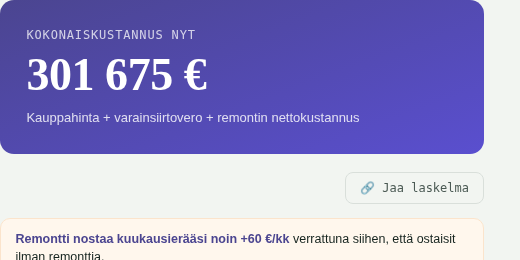
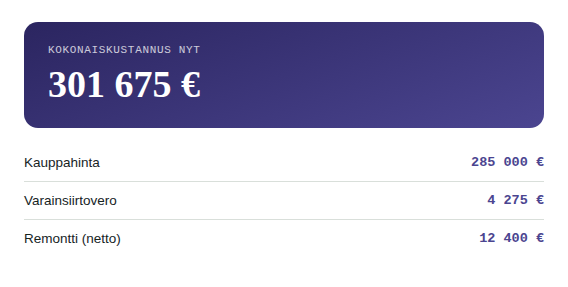
Etusivun visuaalinen hierarkia korjattu spekin mukaan:
HERO: kappale lyhennetty yhteen virkkeeseen, CTA 'Avaa asuntolaskuri ->' linkkaa suoraan remontti-asuntokauppa.html:ään (ei #tyokalut). Uusi kevyt tuloskortti-mockup (301675e + kauppahinta/vero/remontti) korvaa tiheän koko-UI-kuvan. Hero-koriste-palkit säilytetty (jo ennestään lyhyt/keski/pitkä-nousevia, tulkittavissa kustannuskerroksina).

TILASTOT: korttiruudukko -> yksi lauserivi '4 laskuria * Kaytto ruudulla 0e * 0 tuotesuositusta'. Ei enaa dashboard-nollia eika 2x2-aukkoa mobiilissa.

AJANKOHTAISTA: keltainen pilli -> tekstilinkki samalla varilla kuin leipalinkit (var(--violetti-2)).

LIPPULAIVAKORTTI: lisatty '285000e -> 301675e' -rivi.

NAIN SE TOIMII: vaihe 2 nyt sama tuloskortti-mockup kuin herossa, sama kromi kolmessa vaiheessa. Mobiilinuolet piilotettu (kumoaa aiemman paatoksen taman uudemman spekin mukaisesti).

NAV: 23 sivua paivitetty 6->4 nakyvaan linkkiin (Etusivu/Tyokalut/Ajankohtaista/UKK). Vuosikello/Esimerkit/Sanasto siirretty footeriin kaikilla sivuilla. Tyokalut-ankkuri osoittaa oikein index.html#tyokalut muilta sivuilta.

MUUT: poistettu emoji esimerkkinapista (remontti-sivu) ja pizza-emoji etusivun kortista.

LOYDETTY JA KORJATTU BUGI: ensimmainen mockup-kuvaversio sisalsi oman selainkromin, mika tuplaantui olemassa olevan HTML-kromin paalle. Regeneroitu kuva ilman kromia, vain sisalto.
[…]

diff --git a/index.html b/index.html
@@ -39,10 +39,8 @@
 
   <nav class="paanavi">
     <a href="index.html" class="aktiivinen">Etusivu</a>
+    <a href="#tyokalut">Työkalut</a>
     <a href="ajankohtaista.html">Ajankohtaista</a>
-    <a href="talouden-vuosikello.html">Vuosikello</a>
-    <a href="esimerkit.html">Esimerkit</a>
-    <a href="sanasto.html">Sanasto</a>
     <a href="ukk.html">UKK</a>
   </nav>
 
@@ -70,8 +68,8 @@
     </svg>
     <div class="hero-teksti">
       <h1>Arjen ongelmat, ratkaistavaksi tehtynä.</h1>
-      <p>Klaara rakentaa ilmaisia, riippumattomia laskureita arjen toistuviin ongelmiin. Ei myyntipuhetta, ei piilotettuja oletuksia — vain selkeä ero sen välillä, mikä on faktaa ja mikä arviota.</p>
-      <a class="fresh-badge" href="#tyokalut">SELVITÄ OMA TILANTEESI →</a>
+      <p>Ilmaisia laskureita ilman myyntipuhetta. Fakta ja arvio pidetään erillään.</p>
+      <a class="fresh-badge" href="remontti-asuntokauppa.html">Avaa asuntolaskuri →</a>
     </div>
     <div class="hero-mockup-kehys">
       <div class="hero-mockup">
@@ -86,24 +84,13 @@
     </div>
   </div>
 
-  <div class="tilasto-palkki">
-    <div class="tilasto-solu">
-      <div class="tilasto-luku" data-kohde="4">0</div>
-      <div class="tilasto-kuvaus">Laskuria käytössä</div>
-    </div>
-    <div class="tilasto-solu">
-      <div class="tilasto-luku" data-kohde="0" data-jalkiliite=" €">0 €</div>
-      <div class="tilasto-kuvaus">Laskurien käyttö ruudulla</div>
-    </div>
-    <div class="tilasto-solu">
-      <div class="tilasto-luku" data-kohde="0">0</div>
-      <div class="tilasto-kuvaus">Finanssituotesuosituksia</div>
-    </div>
+  <div class="tilasto-lause">
+    <strong>4 laskuria</strong> · Käyttö ruudulla <strong>0 €</strong> · <strong>0</strong> tuotesuositusta
   </div>
 
   <a class="cta-laskuri" href="ajankohtaista.html" style="text-decoration:none; margin-bottom:28px;">
     <span><strong style="color:var(--muste);">Uutta:</strong> Ajankohtaista — kuratoitu poiminta arjen talousuutisista, juuri nyt.</span>
-    <span style="font-family:'IBM Plex Mono', monospace; font-size:12.5px; font-weight:600; color:var(--muste); background:var(--cta); padding:9px 16px; border-radius:8px; white-space:nowrap;">Katso poiminnat →</span>
+    <span style="font-family:'IBM Plex Mono', monospace; font-size:12.5px; font-weight:600; color:var(--violetti-2); white-space:nowrap;">Katso poiminnat →</span>
   </a>
 
   <div class="osio-tagi">Työkalut</div>
@@ -116,6 +103,7 @@
       <div class="tyokalu-tila fresh">Käytössä</div>
       <h3>Remontti & asuntokauppa</h3>
       <p>Kauppahinta, varainsiirtovero, kotitalousvähennys ja kolmen lainatyypin vertailu — yhtenä selkeänä kokonaiskuvana. Lippulaivamme, laajin laskuri sivustolla.</p>
+      <div style="font-family:'IBM Plex Mono', monospace; font-size:13px; color:rgba(255,255,255,0.85); margin-top:12px;">285 000 € → 301 675 €</div>
     </a>
 
     <a class="tyokalu-kortti vierity-sisaan" href="korkoa-korolle-laskuri.html">
@@ -170,7 +158,7 @@
     <a class="tyokalu-kortti vierity-sisaan kevennys-kortti" href="pizzataikina-laskuri.html">
       <span class="tyokalu-numero">09</span>
       <div class="tyokalu-tila kevennys">Klaara Kevennys</div>
-      <h3>Pizzataikinan laskuri 🍕</h3>
+      <h3>Pizzataikinan laskuri</h3>
       <p>Sama täsmällisyys, kevyempi aihe. Leipurin prosentit, poolish-esitaikina ja aikataulu taaksepäin laskettuna.</p>
     </a>
 
@@ -218,6 +206,11 @@
   </div>
 
   <footer class="alatunniste">
+    <div class="footeri-linkit" style="width:100%; display:flex; gap:18px; flex-wrap:wrap; margin-bottom:14px; font-size:13px;">
+      <a href="talouden-vuosikello.html" style="color:var(--muste-2);">Vuosikello</a>
+      <a href="esimerkit.html" style="color:var(--muste-2);">Esimerkit</a>
+      <a href="sanasto.html" style="color:var(--muste-2);">Sanasto</a>
+    </div>
     <span>Klaara — arjen laskurit, selkeästi.</span>
     <span>Tiedot päivitetty 20.8.2026</span>
   </footer>

diff --git a/remontti-asuntokauppa.html b/remontti-asuntokauppa.html
@@ -40,10 +40,8 @@
 
   <nav class="paanavi">
     <a href="index.html">Etusivu</a>
+    <a href="index.html#tyokalut">Työkalut</a>
     <a href="ajankohtaista.html">Ajankohtaista</a>
-    <a href="talouden-vuosikello.html">Vuosikello</a>
-    <a href="esimerkit.html">Esimerkit</a>
-    <a href="sanasto.html">Sanasto</a>
     <a href="ukk.html">UKK</a>
   </nav>
 
@@ -76,7 +74,7 @@
     <div class="paneeli">
       <h2>Syötä tiedot</h2>
 
-      <button type="button" class="esimerkki-nappi" id="esimerkkiNappi">✨ Täytä esimerkkilaskelma — kokeile kaikkia ominaisuuksia yhdellä klikkauksella</button>
+      <button type="button" class="esimerkki-nappi" id="esimerkkiNappi">Täytä esimerkkilaskelma — kokeile kaikkia ominaisuuksia yhdellä klikkauksella</button>
 
       <div class="osio-otsikko">Nykyinen tilanne</div>
       <div class="kytkin-rivi">
@@ -586,6 +584,11 @@
   </div>
 
   <footer class="alatunniste">
+    <div class="footeri-linkit" style="width:100%; display:flex; gap:18px; flex-wrap:wrap; margin-bottom:14px; font-size:13px;">
+      <a href="talouden-vuosikello.html" style="color:var(--muste-2);">Vuosikello</a>
+      <a href="esimerkit.html" style="color:var(--muste-2);">Esimerkit</a>
+      <a href="sanasto.html" style="color:var(--muste-2);">Sanasto</a>
+    </div>
     <span>Klaara — arjen laskurit, selkeästi.</span>
     <span>Tiedot päivitetty 20.8.2026</span>
   </footer>

diff --git a/styles.css b/styles.css
@@ -1425,11 +1425,7 @@ details.lisaasetukset .lisaasetukset-sisalto { margin-top: 16px; }
   .miten-kortti { margin-bottom: 1.5rem; }
   .miten-kortti:last-child { margin-bottom: 0; }
 
-  .miten-nuoli {
-    display: flex;
-    margin: 0 auto 1.5rem;
-    transform: rotate(90deg);
-  }
+  .miten-nuoli { display: none; }
 
   .miten-ghost-numero { font-size: 60px; top: -4px; }
 
@@ -1590,4 +1586,23 @@ details.lisaasetukset .lisaasetukset-sisalto { margin-top: 16px; }
 }
 @media (prefers-reduced-motion: reduce) {
   .vierity-sisaan { opacity: 1; transform: none; transition: none; }
+}
+
+/* ---------- Tilastolause (korvaa dashboard-kortit) ---------- */
+
+.tilasto-lause {
+  font-family: 'Inter', sans-serif;
+  font-size: 14.5px;
+  color: var(--muste-2);
+  text-align: center;
+  padding: 18px 16px;
+  margin: 28px 0;
+}
+.tilasto-lause strong {
+  font-family: 'IBM Plex Mono', monospace;
+  color: var(--violetti-2);
+  font-weight: 700;
+}
+@media (max-width: 560px) {
+  .tilasto-lause { font-size: 13.5px; line-height: 1.9; }
 }

diff --git a/pizzataikina-laskuri.html b/pizzataikina-laskuri.html
@@ -71,10 +71,8 @@
 
   <nav class="paanavi">
     <a href="index.html">Etusivu</a>
+    <a href="index.html#tyokalut">Työkalut</a>
     <a href="ajankohtaista.html">Ajankohtaista</a>
-    <a href="talouden-vuosikello.html">Vuosikello</a>
-    <a href="esimerkit.html">Esimerkit</a>
-    <a href="sanasto.html">Sanasto</a>
     <a href="ukk.html">UKK</a>
   </nav>
 
@@ -345,6 +343,11 @@
   </div>
 
   <footer class="alatunniste">
+    <div class="footeri-linkit" style="width:100%; display:flex; gap:18px; flex-wrap:wrap; margin-bottom:14px; font-size:13px;">
+      <a href="talouden-vuosikello.html" style="color:var(--muste-2);">Vuosikello</a>
+      <a href="esimerkit.html" style="color:var(--muste-2);">Esimerkit</a>
+      <a href="sanasto.html" style="color:var(--muste-2);">Sanasto</a>
+    </div>
     <span>Klaara — arjen ratkaisut, selkeästi. (Ja välillä pizzaa.)</span>
     <span>Tiedot päivitetty 28.8.2026</span>
   </footer>

diff --git a/ajankohtaista.html b/ajankohtaista.html
@@ -39,10 +39,8 @@
 
   <nav class="paanavi">
     <a href="index.html">Etusivu</a>
+    <a href="index.html#tyokalut">Työkalut</a>
     <a href="ajankohtaista.html" class="aktiivinen">Ajankohtaista</a>
-    <a href="talouden-vuosikello.html">Vuosikello</a>
-    <a href="esimerkit.html">Esimerkit</a>
-    <a href="sanasto.html">Sanasto</a>
     <a href="ukk.html">UKK</a>
   </nav>
 
@@ -102,6 +100,11 @@
   </div>
 
   <footer class="alatunniste">
+    <div class="footeri-linkit" style="width:100%; display:flex; gap:18px; flex-wrap:wrap; margin-bottom:14px; font-size:13px;">
+      <a href="talouden-vuosikello.html" style="color:var(--muste-2);">Vuosikello</a>
+      <a href="esimerkit.html" style="color:var(--muste-2);">Esimerkit</a>
+      <a href="sanasto.html" style="color:var(--muste-2);">Sanasto</a>
+    </div>
     <span>Klaara — arjen laskurit, selkeästi.</span>
     <span>Poiminnat päivitetty 20.8.2026</span>
   </footer>

diff --git a/esimerkki-asunnon-osto-remontti.html b/esimerkki-asunnon-osto-remontti.html
@@ -39,10 +39,8 @@
 
   <nav class="paanavi">
     <a href="index.html">Etusivu</a>
+    <a href="index.html#tyokalut">Työkalut</a>
     <a href="ajankohtaista.html">Ajankohtaista</a>
-    <a href="talouden-vuosikello.html">Vuosikello</a>
-    <a href="esimerkit.html" class="aktiivinen">Esimerkit</a>
-    <a href="sanasto.html">Sanasto</a>
     <a href="ukk.html">UKK</a>
   </nav>
 
@@ -127,6 +125,11 @@
   </div>
 
   <footer class="alatunniste">
+    <div class="footeri-linkit" style="width:100%; display:flex; gap:18px; flex-wrap:wrap; margin-bottom:14px; font-size:13px;">
+      <a href="talouden-vuosikello.html" style="color:var(--muste-2);">Vuosikello</a>
+      <a href="esimerkit.html" style="color:var(--muste-2);">Esimerkit</a>
+      <a href="sanasto.html" style="color:var(--muste-2);">Sanasto</a>
+    </div>
     <span>Klaara — arjen laskurit, selkeästi.</span>
     <span>Tiedot päivitetty 20.8.2026</span>
   </footer>

diff --git a/esimerkki-kylpyhuoneremontti.html b/esimerkki-kylpyhuoneremontti.html
@@ -39,10 +39,8 @@
 
   <nav class="paanavi">
     <a href="index.html">Etusivu</a>
+    <a href="index.html#tyokalut">Työkalut</a>
     <a href="ajankohtaista.html">Ajankohtaista</a>
-    <a href="talouden-vuosikello.html">Vuosikello</a>
-    <a href="esimerkit.html" class="aktiivinen">Esimerkit</a>
-    <a href="sanasto.html">Sanasto</a>
     <a href="ukk.html">UKK</a>
   </nav>
 
@@ -126,6 +124,11 @@
   </div>
 
   <footer class="alatunniste">
+    <div class="footeri-linkit" style="width:100%; display:flex; gap:18px; flex-wrap:wrap; margin-bottom:14px; font-size:13px;">
+      <a href="talouden-vuosikello.html" style="color:var(--muste-2);">Vuosikello</a>
+      <a href="esimerkit.html" style="color:var(--muste-2);">Esimerkit</a>
+      <a href="sanasto.html" style="color:var(--muste-2);">Sanasto</a>
+    </div>
     <span>Klaara — arjen laskurit, selkeästi.</span>
     <span>Tiedot päivitetty 20.8.2026</span>
   </footer>

diff --git a/esimerkki-pariskunta-vs-yksin.html b/esimerkki-pariskunta-vs-yksin.html
@@ -39,10 +39,8 @@
 
   <nav class="paanavi">
     <a href="index.html">Etusivu</a>
+    <a href="index.html#tyokalut">Työkalut</a>
     <a href="ajankohtaista.html">Ajankohtaista</a>
-    <a href="talouden-vuosikello.html">Vuosikello</a>
-    <a href="esimerkit.html" class="aktiivinen">Esimerkit</a>
-    <a href="sanasto.html">Sanasto</a>
     <a href="ukk.html">UKK</a>
   </nav>
 
@@ -125,6 +123,11 @@
   </div>
 
   <footer class="alatunniste">
+    <div class="footeri-linkit" style="width:100%; display:flex; gap:18px; flex-wrap:wrap; margin-bottom:14px; font-size:13px;">
+      <a href="talouden-vuosikello.html" style="color:var(--muste-2);">Vuosikello</a>
+      <a href="esimerkit.html" style="color:var(--muste-2);">Esimerkit</a>
+      <a href="sanasto.html" style="color:var(--muste-2);">Sanasto</a>
+    </div>
     <span>Klaara — arjen laskurit, selkeästi.</span>
     <span>Tiedot päivitetty 20.8.2026</span>
   </footer>

diff --git a/sanasto-annuiteettilaina.html b/sanasto-annuiteettilaina.html
@@ -39,10 +39,8 @@
 
   <nav class="paanavi">
     <a href="index.html">Etusivu</a>
+    <a href="index.html#tyokalut">Työkalut</a>
     <a href="ajankohtaista.html">Ajankohtaista</a>
-    <a href="talouden-vuosikello.html">Vuosikello</a>
-    <a href="esimerkit.html">Esimerkit</a>
-    <a href="sanasto.html" class="aktiivinen">Sanasto</a>
     <a href="ukk.html">UKK</a>
   </nav>
 
@@ -104,6 +102,11 @@
   </div>
 
   <footer class="alatunniste">
+    <div class="footeri-linkit" style="width:100%; display:flex; gap:18px; flex-wrap:wrap; margin-bottom:14px; font-size:13px;">
+      <a href="talouden-vuosikello.html" style="color:var(--muste-2);">Vuosikello</a>
+      <a href="esimerkit.html" style="color:var(--muste-2);">Esimerkit</a>
+      <a href="sanasto.html" style="color:var(--muste-2);">Sanasto</a>
+    </div>
     <span>Klaara — arjen laskurit, selkeästi.</span>
     <span>Tiedot päivitetty 20.8.2026</span>
   </footer>

diff --git a/sanasto-bullettilaina.html b/sanasto-bullettilaina.html
@@ -39,10 +39,8 @@
 
   <nav class="paanavi">
     <a href="index.html">Etusivu</a>
+    <a href="index.html#tyokalut">Työkalut</a>
     <a href="ajankohtaista.html">Ajankohtaista</a>
-    <a href="talouden-vuosikello.html">Vuosikello</a>
-    <a href="esimerkit.html">Esimerkit</a>
-    <a href="sanasto.html" class="aktiivinen">Sanasto</a>
     <a href="ukk.html">UKK</a>
   </nav>
 
@@ -103,6 +101,11 @@
   </div>
 
   <footer class="alatunniste">
+    <div class="footeri-linkit" style="width:100%; display:flex; gap:18px; flex-wrap:wrap; margin-bottom:14px; font-size:13px;">
+      <a href="talouden-vuosikello.html" style="color:var(--muste-2);">Vuosikello</a>
+      <a href="esimerkit.html" style="color:var(--muste-2);">Esimerkit</a>
+      <a href="sanasto.html" style="color:var(--muste-2);">Sanasto</a>
+    </div>
     <span>Klaara — arjen laskurit, selkeästi.</span>
     <span>Tiedot päivitetty 20.8.2026</span>
   </footer>

diff --git a/sanasto-kasiraha.html b/sanasto-kasiraha.html
@@ -39,10 +39,8 @@
 
   <nav class="paanavi">
     <a href="index.html">Etusivu</a>
+    <a href="index.html#tyokalut">Työkalut</a>
     <a href="ajankohtaista.html">Ajankohtaista</a>
-    <a href="talouden-vuosikello.html">Vuosikello</a>
-    <a href="esimerkit.html">Esimerkit</a>
-    <a href="sanasto.html" class="aktiivinen">Sanasto</a>
     <a href="ukk.html">UKK</a>
   </nav>
 
@@ -103,6 +101,11 @@
   </div>
 
   <footer class="alatunniste">
+    <div class="footeri-linkit" style="width:100%; display:flex; gap:18px; flex-wrap:wrap; margin-bottom:14px; font-size:13px;">
+      <a href="talouden-vuosikello.html" style="color:var(--muste-2);">Vuosikello</a>
+      <a href="esimerkit.html" style="color:var(--muste-2);">Esimerkit</a>
+      <a href="sanasto.html" style="color:var(--muste-2);">Sanasto</a>
+    </div>
     <span>Klaara — arjen laskurit, selkeästi.</span>
     <span>Tiedot päivitetty 20.8.2026</span>
   </footer>

diff --git a/sanasto-korkoakorolle.html b/sanasto-korkoakorolle.html
@@ -39,10 +39,8 @@
 
   <nav class="paanavi">
     <a href="index.html">Etusivu</a>
+    <a href="index.html#tyokalut">Työkalut</a>
     <a href="ajankohtaista.html">Ajankohtaista</a>
-    <a href="talouden-vuosikello.html">Vuosikello</a>
-    <a href="esimerkit.html">Esimerkit</a>
-    <a href="sanasto.html" class="aktiivinen">Sanasto</a>
     <a href="ukk.html">UKK</a>
   </nav>
 
@@ -102,6 +100,11 @@
   </div>
 
   <footer class="alatunniste">
+    <div class="footeri-linkit" style="width:100%; display:flex; gap:18px; flex-wrap:wrap; margin-bottom:14px; font-size:13px;">
+      <a href="talouden-vuosikello.html" style="color:var(--muste-2);">Vuosikello</a>
+      <a href="esimerkit.html" style="color:var(--muste-2);">Esimerkit</a>
+      <a href="sanasto.html" style="color:var(--muste-2);">Sanasto</a>
+    </div>
     <span>Klaara — arjen laskurit, selkeästi.</span>
     <span>Tiedot päivitetty 20.8.2026</span>
   </footer>
